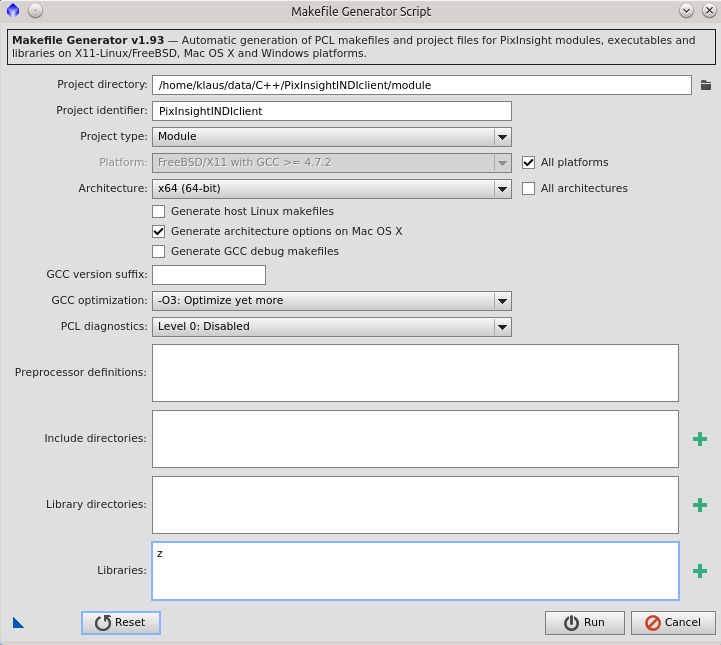
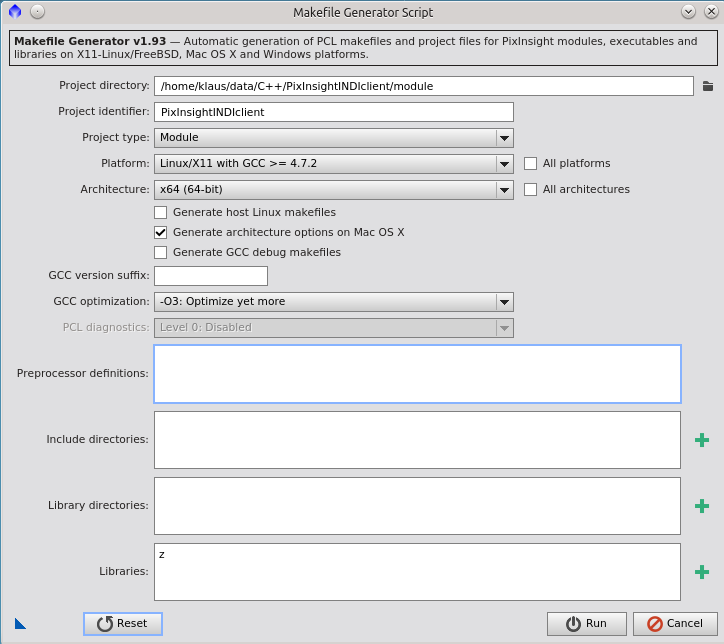
Adapt docu

diff --git a/README.md b/README.md
@@ -1,9 +1,9 @@
-PixInsight INDI Client
-======================
+PixInsight INDI Device Controller
+=================================
 
 ![Build Status Image](https://travis-ci.org/kkretzschmar/PixInsightINDIclient.svg?branch=master)
 
-PixInsight INDI Client is an INDI controller client for the image processing platform [PixInsight](http://pixinsight.com/).
+PixInsight INDI Device Controller is an INDI controller client for the image processing platform [PixInsight](http://pixinsight.com/).
 Using the [INDI technology](http://www.indilib.org/), it allows to control astronomical devices like telescope mounts, 
 CCD cameras, filter wheels, DSLRs from PixInsight.    
 
@@ -12,10 +12,10 @@ CCD cameras, filter wheels, DSLRs from PixInsight.
 Installation
 ------------
 The client can be installed as a regular PixInsight module. To build the module from sources use the PixInsight Makefile Generator script with the 
-following settings (for all OS except windows). 
+following settings (for all Linux and MacOS): 
 
 ![Makefile Generator](images/MakefileGeneartor_Module.png)
 
-For windows builds you have to link against the pthread library additionally.
+And for windows builds:
 
 ![Makefile Generator](images/MakefileGeneartor_Module_Windows.png)
